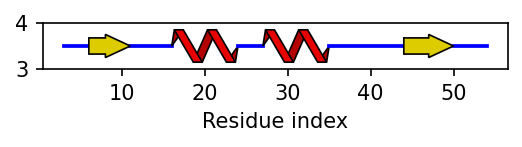
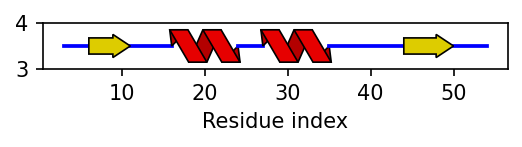
Fix: Spelling in README.md and example1.png

diff --git a/secstructartist/interface/artist_dssp.py b/secstructartist/interface/artist_dssp.py
@@ -49,13 +49,13 @@ class SecStructArtistDssp(SecStructArtist):
         self.linewidth = linewidth
         self.zorder = zorder
         self._artists = {}
-        self["G"] = art.HelixArtist(**(G_kwargs or {})) 
-        self["H"] = art.HelixArtist(**(H_kwargs or {})) 
-        self["I"] = art.HelixArtist(**(I_kwargs or {}))
-        self["E"] = art.SheetArtist(**(E_kwargs or {}))
-        self["B"] = art.SheetArtist(**(B_kwargs or {}))
-        self["S"] = art.LoopArtist(**(S_kwargs or {}))
-        self["T"] = art.LoopArtist(**(T_kwargs or {}))
-        self["C"] = art.LoopArtist(**(C_Kwargs or {}))
-        self["c"] =  self["C"]
-        self[" "] =  self["C"]
+        self["G"] = art.HelixArtist(**(G_kwargs or {})) # 3_10 helix
+        self["H"] = art.HelixArtist(**(H_kwargs or {})) # alpha-helix
+        self["I"] = art.HelixArtist(**(I_kwargs or {})) # pi-helix
+        self["E"] = art.SheetArtist(**(E_kwargs or {})) # extended strand in beta-ladder
+        self["B"] = art.SheetArtist(**(B_kwargs or {})) # isolated beta-bridge
+        self["S"] = art.LoopArtist(**(S_kwargs or {}))  # bend
+        self["T"] = art.LoopArtist(**(T_kwargs or {}))  # H-bonded turn
+        self["C"] = art.LoopArtist(**(C_Kwargs or {}))  # coil
+        self["c"] = self["C"]   # same as above (alternative labeling)
+        self[" "] = self["C"]   # same as above (alternative labeling)

diff --git a/setup.py b/setup.py
@@ -5,7 +5,7 @@ with open("README.md", "r", encoding="utf-8") as fhandle:
 
 setup(
     name="secstructartist",
-    version="1.0.6",
+    version="1.0.7",
     author="David Bickel",
     author_email="athertier@mailueberfall.de",
     description="Module to visualize protein secondary structure in matplotlib plots",

diff --git a/README.md b/README.md
@@ -1,6 +1,6 @@
 # SecStructArtist
 
-This is a package allows to include pretty secondary structure schemes in 
+This package allows to include pretty secondary structure schemes in 
 matplotlib plots.
 
 ![example_rmsf.png](./examples/example_rmsf.png)
@@ -110,8 +110,10 @@ artist.linewidth = .8
 # Set settings of "H" - Helices
 artist["H"].fillcolor = (.9, 0., 0.)
 artist["H"].shadecolor = (.7, 0., 0.)
+artist["H"].ribbon_period = 3.6
+artist["H"].ribbon_width = 2.2
 # Set settings of "S" - beta-Sheets
-artist["S"].arrow_length = 3
+artist["S"].arrow_length = 2.7
 artist["S"].fillcolor = "#dc0"
 artist["S"].height = .5
 # Set settings of "L" - loop
